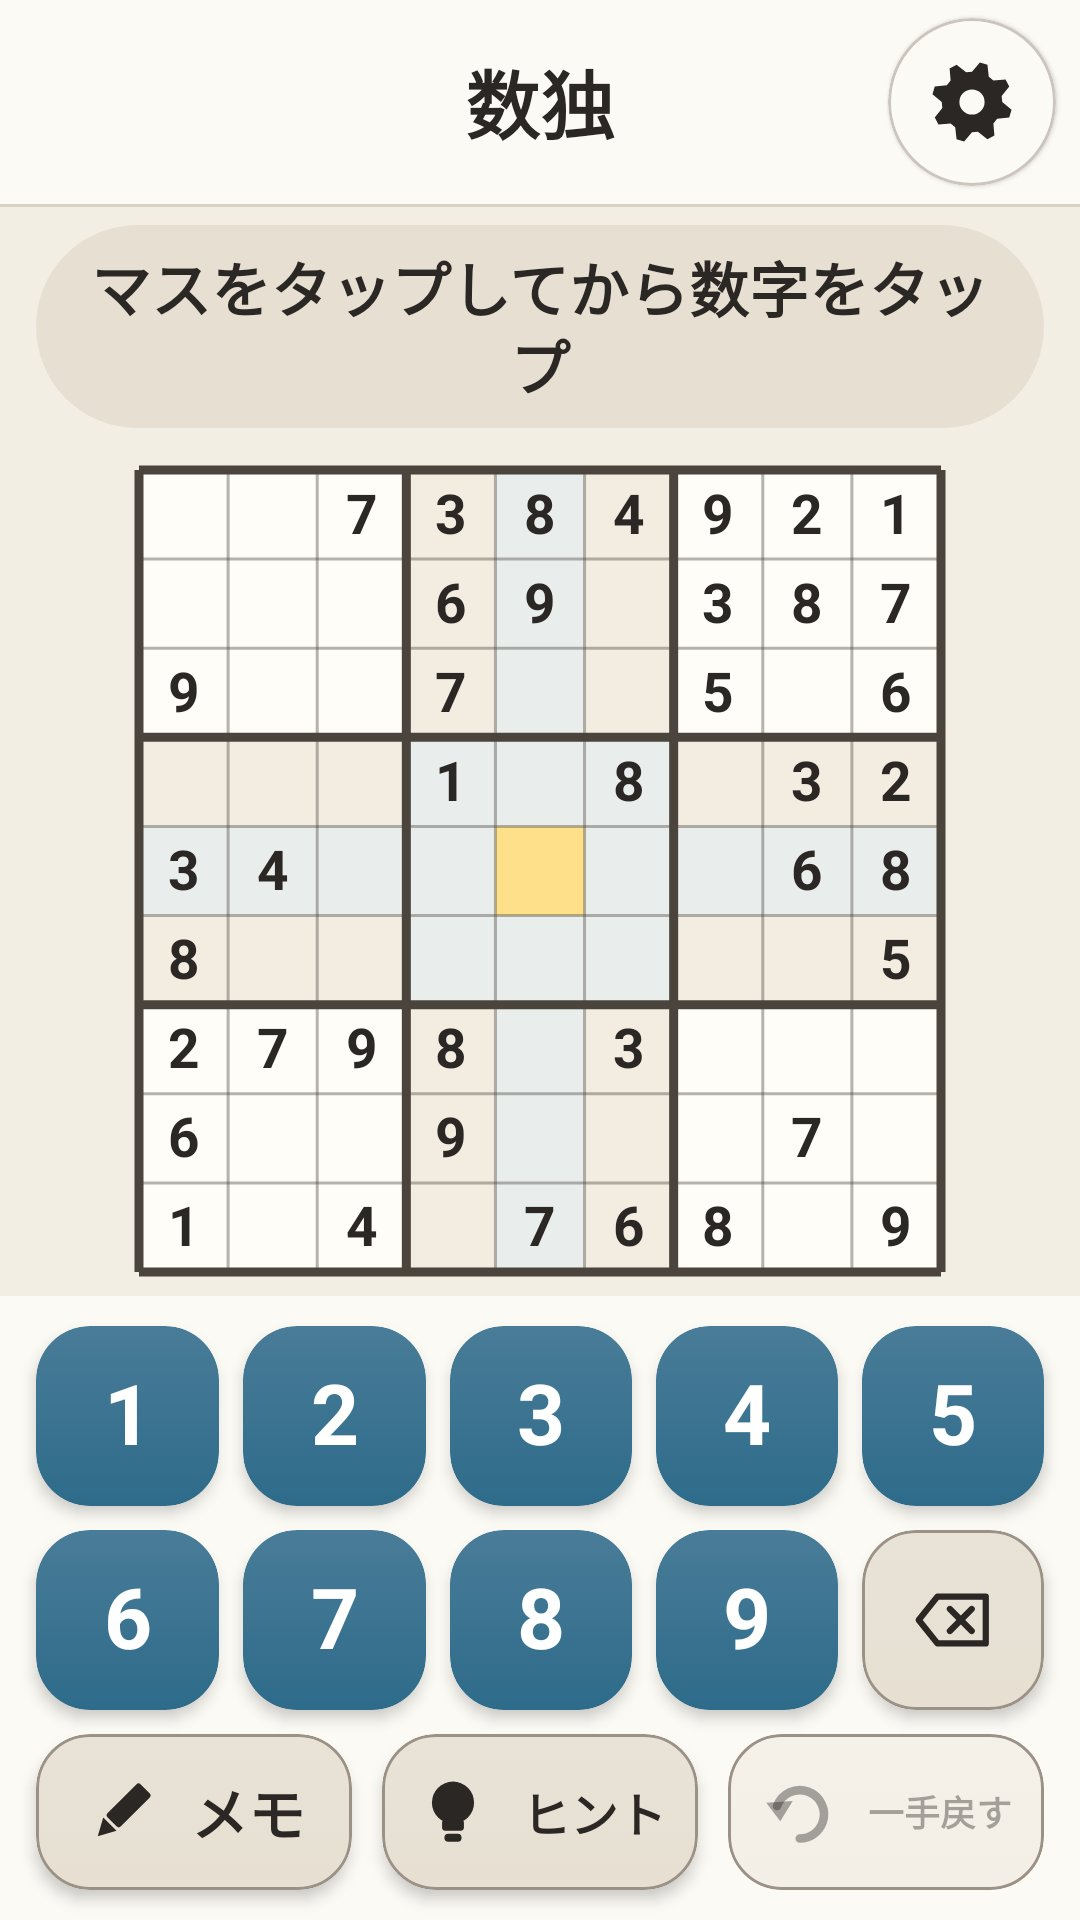
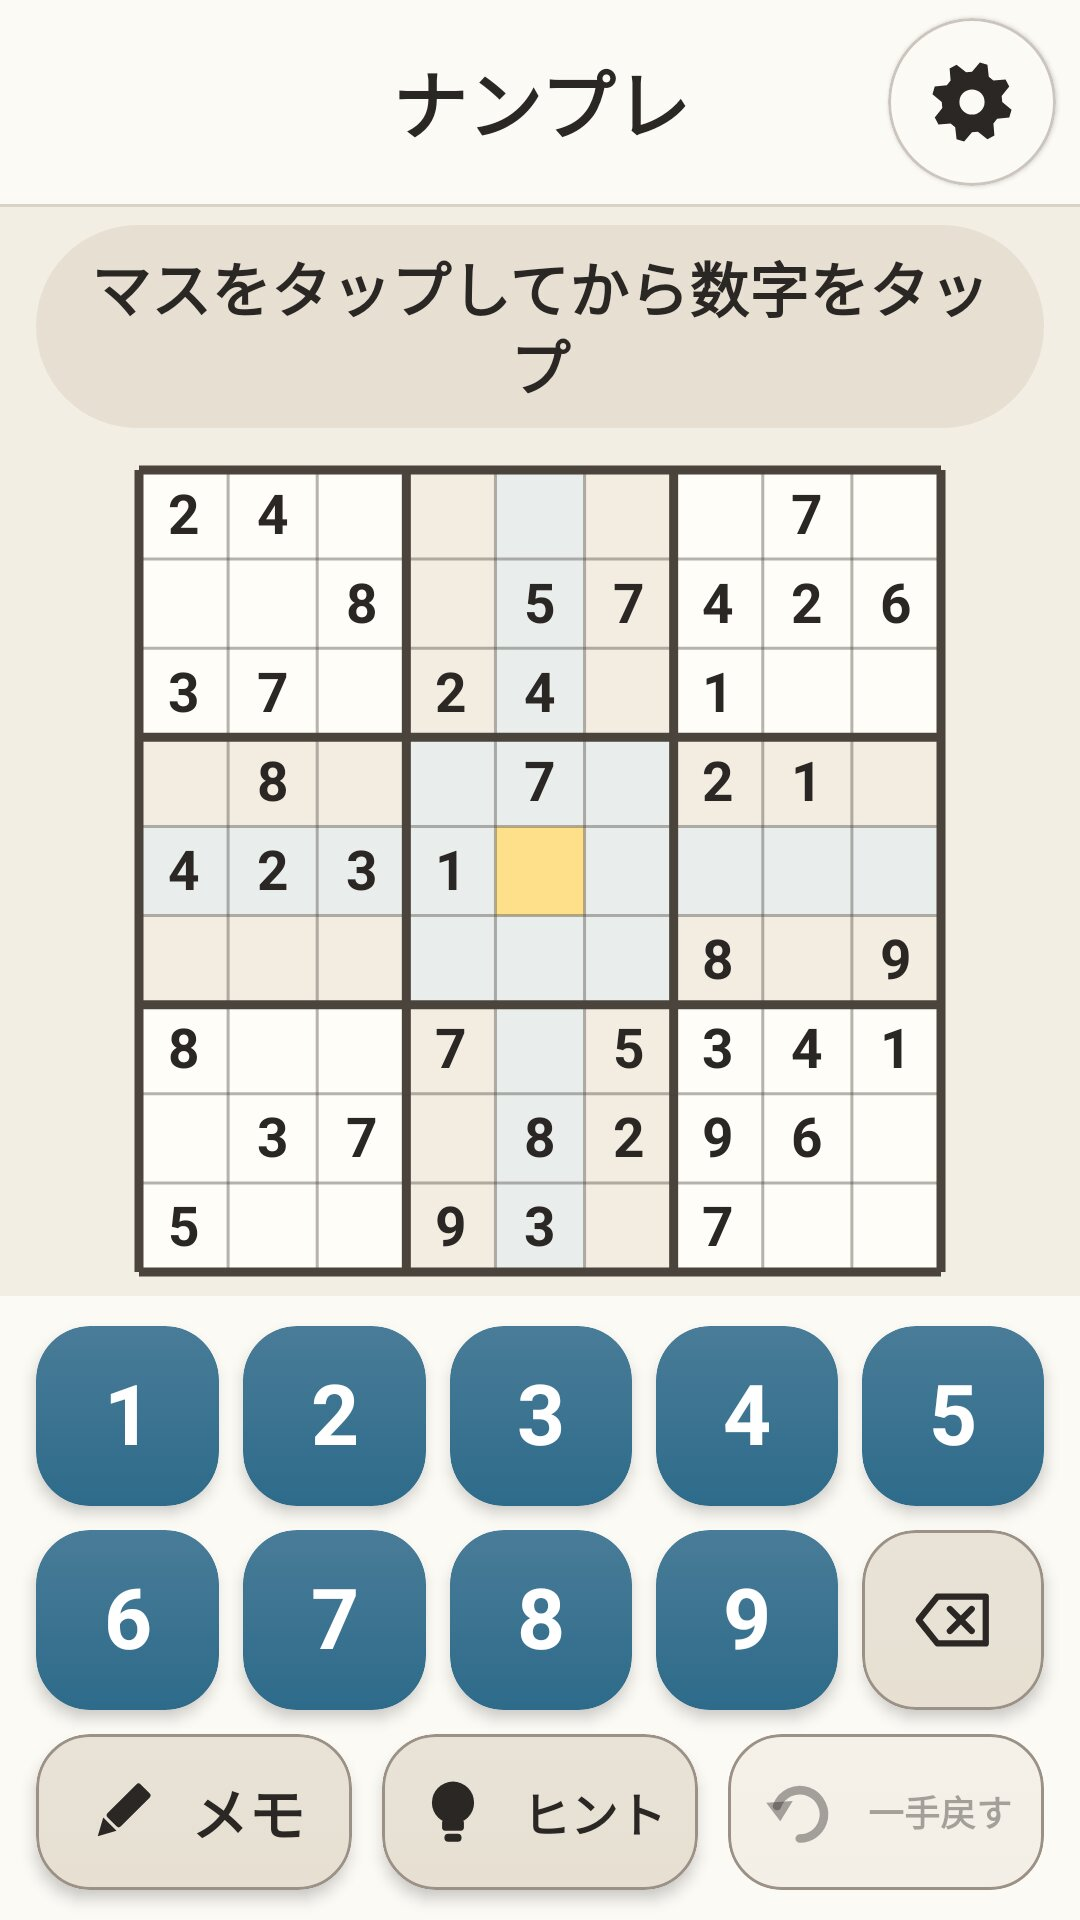
fix(i18n): call sudoku ナンプレ in Japanese
数独 is a registered trademark in Japan; puzzle books and apps there use the generic name
ナンプレ (number place). Interface, README, user guide, trust page and store listing follow,
and the Japanese store screenshot of the game is regenerated.

diff --git a/README.ja.md b/README.ja.md
@@ -4,7 +4,7 @@
 
 **昔ながらのゲーム10種類を、小さくて安心なAndroidアプリ1つに。ご年配の方のために作りました。**
 
-数独 · ソリティア · ブラコ · バックギャモン · 麻雀ソリティア · リバーシ · クロスワード · パイプつなぎ · 色つなぎ · ドットつなぎ
+ナンプレ · ソリティア · ブラコ · バックギャモン · 麻雀ソリティア · リバーシ · クロスワード · パイプつなぎ · 色つなぎ · ドットつなぎ
 
 🌐 [English](README.md) · [Português](README.pt-BR.md) · [Español](README.es.md) · [Français](README.fr.md) · [Italiano](README.it.md) · [Deutsch](README.de.md) · [Русский](README.ru.md) · **日本語** · [中文](README.zh-CN.md) · [العربية](README.ar.md)
 
@@ -38,7 +38,7 @@
 ## 主な特長
 
 - **10種類のゲーム**。どれも **かんたん／ふつう／むずかしい** から選べます。
-- **問題はその場で新しく作られます**（数独、麻雀ソリティア、パイプつなぎ、色つなぎ、クロスワードなど）。同じ問題がくり返されることはなく、作られた問題は**必ず解ける**ようになっています。
+- **問題はその場で新しく作られます**（ナンプレ、麻雀ソリティア、パイプつなぎ、色つなぎ、クロスワードなど）。同じ問題がくり返されることはなく、作られた問題は**必ず解ける**ようになっています。
 - バックギャモン、ブラコ、リバーシには、それぞれ専用に作った**本格的なコンピューターの相手**がいます。
 - **すべてのゲームで2本指の拡大**ができます。片手モードでは1本指でも拡大できます。
 - **自動で保存**：うっかりアプリを閉じてしまっても、やめたところからそのまま続けられます。
@@ -49,7 +49,7 @@
 
 | | ゲーム | どんなゲーム？ | むずかしさによるちがい |
 |---|---|---|---|
-| <img src="docs/screenshots/game_sudoku.png" width="70"> | **数独** | おなじみの9×9の数字パズル。メモ、ヒント、一手戻すが使えます | 最初の数字が 40 → 32 → 26 個。かんたん・ふつうではまちがいが赤で表示されます |
+| <img src="docs/screenshots/game_sudoku.png" width="70"> | **ナンプレ** | おなじみの9×9の数字パズル。メモ、ヒント、一手戻すが使えます | 最初の数字が 40 → 32 → 26 個。かんたん・ふつうではまちがいが赤で表示されます |
 | <img src="docs/screenshots/game_solitaire.png" width="70"> | **ソリティア** | クロンダイク。カードをタップすると、いちばんよい場所に動きます | 1枚めくり → 3枚めくり → 3枚めくりで山札は3回まで |
 | <img src="docs/screenshots/game_buraco.png" width="70"> | **ブラコ** | コンピューターと対戦するブラジルのラミー（トランプ2組、2はジョーカー、予備の手札、カナスタ） | コンピューターがかしこくなります：捨て札を上手に取り、ジョーカーを大切にし、あなたに役立つカードを捨てません |
 | <img src="docs/screenshots/game_backgammon.png" width="70"> | **バックギャモン** | 正式なルール（バー、ヒット、上がり、ギャモン） | コンピューターが「気軽」から、次のサイコロまで読む強さ（エクスペクティマックス）まで |

diff --git a/docs/ja/trust.md b/docs/ja/trust.md
@@ -75,7 +75,7 @@ aapt2 dump permissions MiliGames-v1.0.0.apk
 1. **Gradle wrapper の確認** — `gradle-wrapper.jar` が公式のファイルであることを確かめます。
 2. **50 の自動テスト**。たとえば次のようなものです。
    - すべてのゲームのルール（打てる手、得点、上がり、ブラコの組とジョーカーなど）
-   - 問題作り：どの数独も答えが1つだけ、どの麻雀ソリティアも解ける、どのパイプつなぎと色つなぎにも完全な答えがある、クロスワードの文字が食いちがわない
+   - 問題作り：どのナンプレも答えが1つだけ、どの麻雀ソリティアも解ける、どのパイプつなぎと色つなぎにも完全な答えがある、クロスワードの文字が食いちがわない
    - コンピューターの相手がすばやくゲームを終え、カードや駒をなくしたり増やしたりしない
    - すべての言語ですべての文が翻訳され、差しこむ部分（数字や名前など）が同じであること
    - 自動保存の保存と読みこみ、こわれた保存データのあつかい、設定の保存
